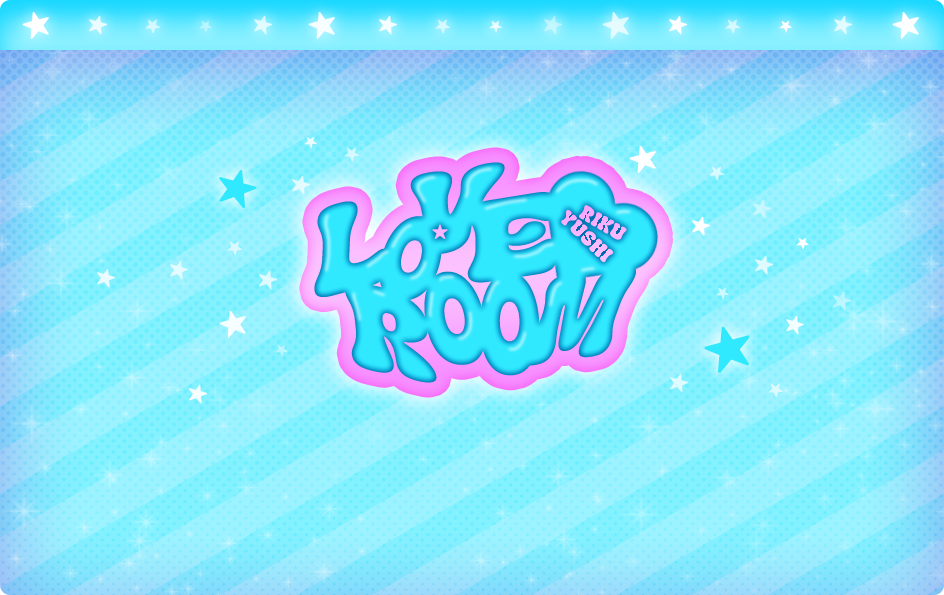
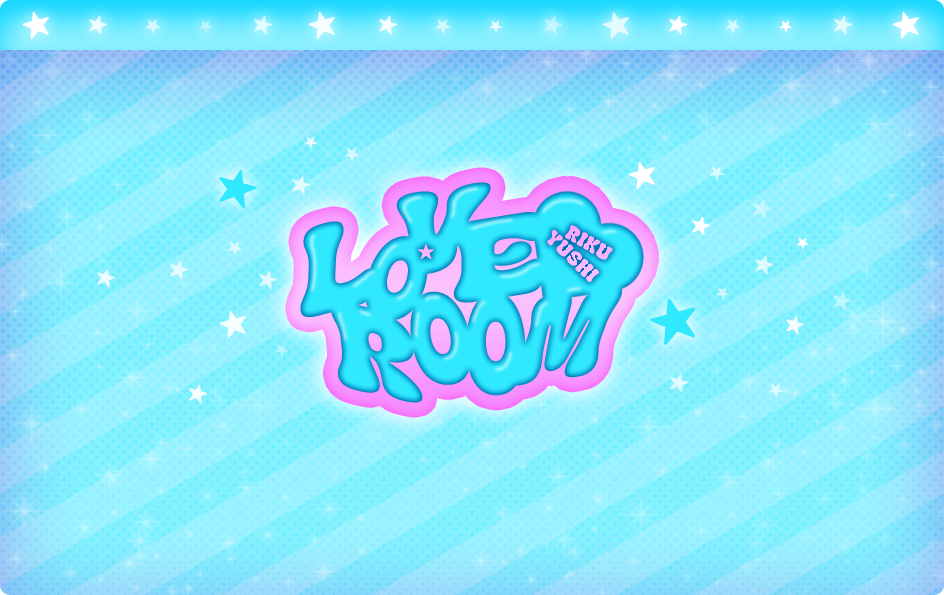
로그인 수정

Changed region(s): [[0.2765, 0.2118, 0.7987, 0.7261]]

diff --git a/src/styles/login.css b/src/styles/login.css
@@ -7,7 +7,7 @@
 .login-box {
   display: flex;
   flex-direction: column;
-  justify-content: center;
+  justify-content: end;
   align-items: center;
   gap: 25px;
   width: 80%;
@@ -21,6 +21,7 @@
   /* border: 30px solid #0093ff17; */
   background: url(../assets/images/login-box-img.png);
   background-size: cover;
+  padding-bottom: 70px;
 }
 .login-box form div {
   display: flex;
